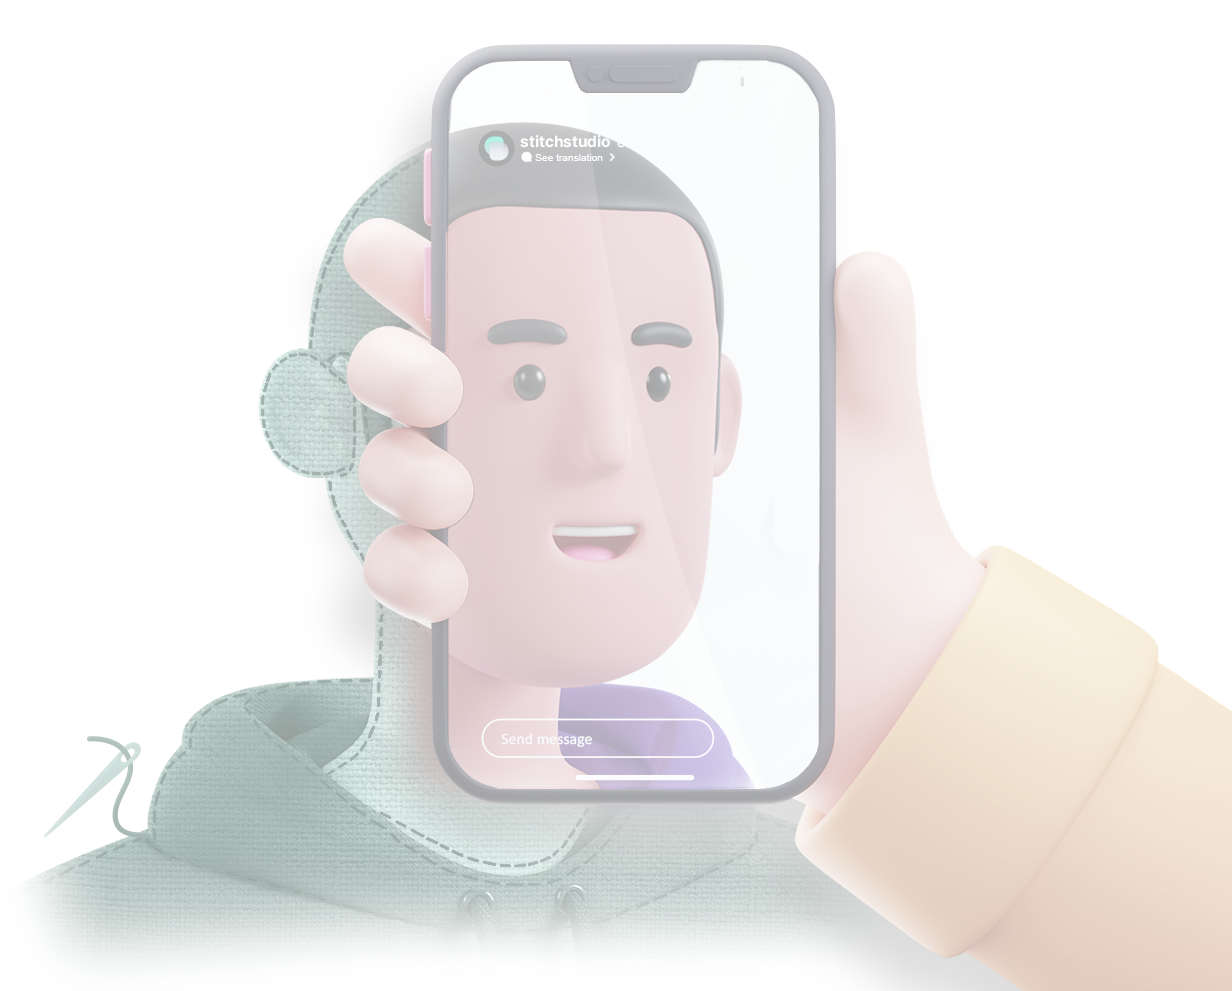
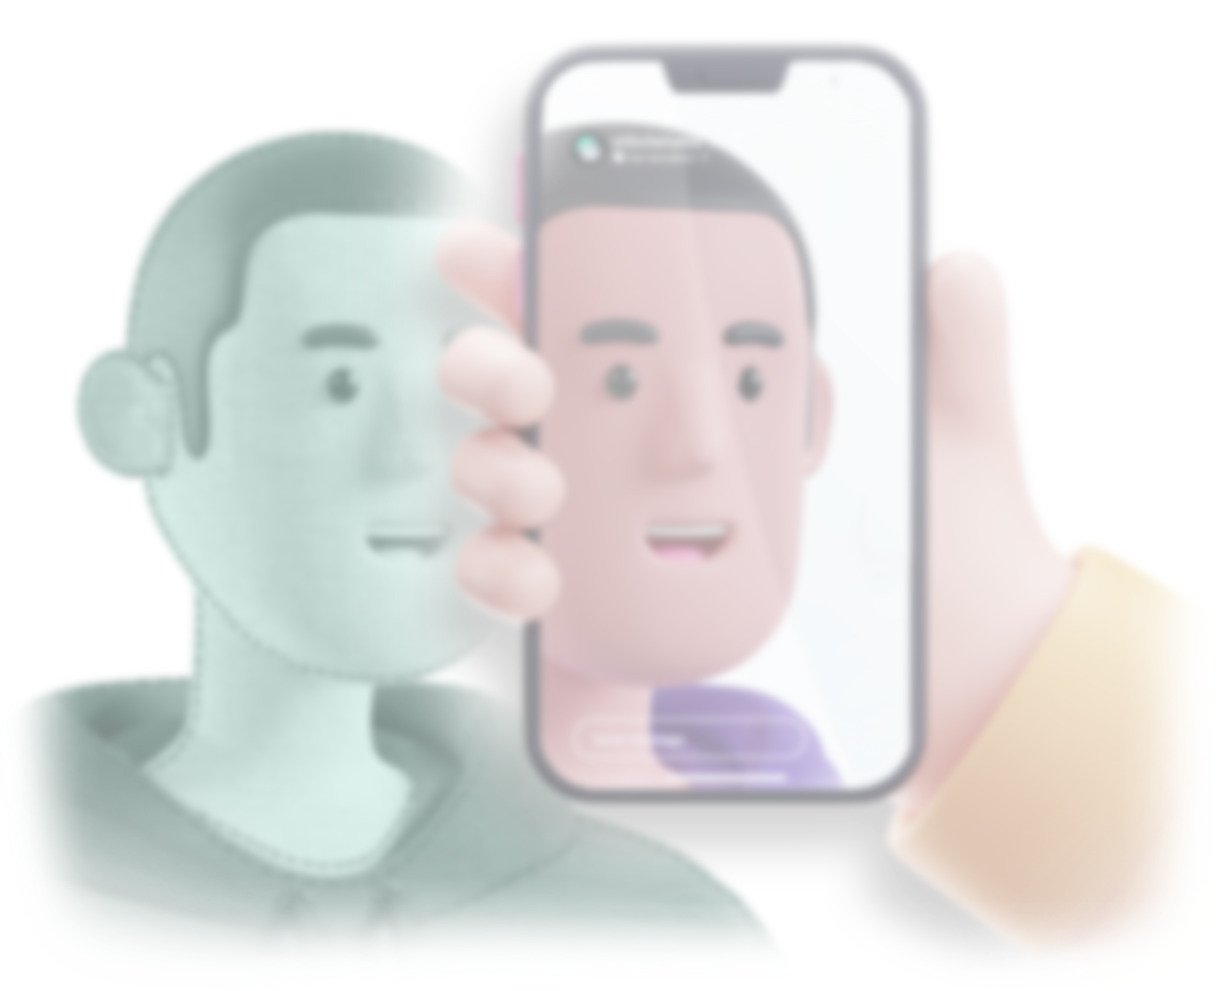
0.0.1

diff --git a/index.html b/index.html
@@ -78,7 +78,7 @@
 								</div>
 								<div class="stitch_fn_desc">
 									<p id="en">Easily create and cast characters for your content using artificial intelligence technology. You no longer need filming equipment and booking a recording studio.</p>
-									<p id="kr">스티치 스튜디오의 AI 기술을 통해 내 콘텐츠에 출연할 인물을 생성 및 섭외하고 직접 자유로운 연출을 감독하세요.</p>
+									<p id="kr">스티치 스튜디오의 AI 기술을 통해 내 콘텐츠에 출연할 인물을 캐스팅하고 직접 자유로운 연출을 감독하세요.</p>
 								</div>
 								<div class="hero1_btn">
 									<a href="#hero2" class="stitch_fn_main_button">
@@ -121,7 +121,7 @@
 									<div class="stitch_fn_abs_img" data-bg-img="img/hero-1-c.png"></div>
 								</div>
 								<div class="layer hero1_img" data-depth="0.6">
-									<img src="img/hero-1-c.png" alt="라온데이터 메인 이미지"/>
+									<img src="img/hero-1-d.png" alt="라온데이터 메인 이미지"/>
 									<div class="stitch_fn_abs_img" data-bg-img="img/hero-1-d.png"></div>
 								</div>
 								</div>
@@ -141,7 +141,9 @@
 		
 		
 		<!-- Divider -->
+	<div class="container wide">
 		<div class="stitch_fn_divider"></div>
+	</div>
 		<!-- /Divider -->
 		
 	<div class="stitch_fn_content">
@@ -169,14 +171,16 @@
 							<div class="s_item" style="
 							background-image:linear-gradient(
 								to bottom,
-								rgba(13, 24, 60, 0.2),
-								rgba(13, 24, 60, 0.6)
-							  ), url(img/hero2-1.png); background-size:100% auto; background-position:center bottom; background-repeat:no-repeat;">
+								rgba(20, 70, 58, 0.4),
+								rgba(13, 39, 38, 0.4)	
+							  ), url(img/hero-2-a.png); background-size:100% auto; background-position:center bottom; background-repeat:no-repeat;">
 								<div class="s_title">
+									<p id="en"><span class="color-stitchgreen">Automated ML Ops.</span></p>
 									<h3 id="en"><span class="color-stitchgreen">AI</span> Digitization</h3>
 									<p id="en">Methods of learning and translating 'human experience' into data are being researched and developed at Raondata with the aim of delivering the ideal human experience in the future.</p>
+									<p id="kr"><span class="color-stitchgreen">자동 모델 학습</span></p>
 									<h3 id="kr"><span class="color-stitchgreen">1</span> 인물 캐스팅</h3>
-									<p id="kr">'인간의 경험'을 학습하고 데이터로 변환하는 방법을 라온데이터는 미래의 이상적인 인간 경험 전달을 목표로 연구 개발하고 있습니다.</p>
+									<p id="kr">자동 학습 </p>
 								</div>
 							</div>
 						</li>
@@ -184,12 +188,14 @@
 							<div class="s_item" style="
 							background-image:linear-gradient(
 								to bottom,
-								rgba(13, 24, 60, 0.2),
-								rgba(13, 24, 60, 0.6)
-							  ), url(img/hero2-2.png); background-size:100% auto; background-position:center bottom; background-repeat:no-repeat;">
+								rgba(20, 70, 58, 0.8),
+								rgba(13, 39, 38, 0.8)	
+							  ), url(img/hero-2-b.png); background-size:100% auto; background-position:center bottom; background-repeat:no-repeat;">
 								<div class="s_title">
+									<p id="en"><span class="color-stitchgreen">AI Modules</span></p>
 									<h3 id="en"><span class="color-stitchgreen">HX</span> Digital Twin</h3>
 									<p id="en">With refined 'human experience' data, AI clones optimized for specific needs can be developed to perform tasks for individuals or organizations.</p>
+									<p id="kr"><span class="color-stitchgreen">기능별 AI 모듈</span></p>
 									<h3 id="kr"><span class="color-stitchgreen">2</span> 연출 감독</h3>
 									<p id="kr">정제된 '인간 경험' 데이터를 통해 특정 요구에 최적화된 AI 클론을 개발하여 개인 또는 조직의 작업을 수행할 수 있습니다.</p>
 								</div>
@@ -199,13 +205,15 @@
 							<div class="s_item" style="
 							background-image:linear-gradient(
 								to bottom,
-								rgba(13, 24, 60, 0.2),
-								rgba(13, 24, 60, 0.6)
-							  ), url(img/hero2-3.png); background-size:100% auto; background-position:center bottom; background-repeat:no-repeat;">
+								rgba(20, 70, 58, 0.8),
+								rgba(13, 39, 38, 0.8)	
+							  ), url(img/hero-2-c.png); background-size:100% auto; background-position:center bottom; background-repeat:no-repeat;">
 								<div class="s_title">
+									<p id="en"><span class="color-stitchgreen">File Export</span></p>
 									<h3 id="en"><span class="color-stitchgreen">HX</span> Data Conversion</h3>
 									<p id="en">Real-time and non-real-time conversion of disparate 'human experience' data allow individuals or organizations to appear completely different persona for specific needs.</p>
-									<h3 id="kr"><span class="color-stitchgreen">3</span> 결과물 적용</h3>
+									<p id="kr"><span class="color-stitchgreen">파일 출력</span></p>
+									<h3 id="kr"><span class="color-stitchgreen">3</span> 결과 적용</h3>
 									<p id="kr">서로 다른 '인간 경험' 데이터의 실시간 및 비실시간 변환을 통해 개인 또는 조직이 특정 요구에 대해 완전히 다른 페르소나를 나타낼 수 있습니다.</p>
 								</div>
 							</div>

diff --git a/css/style.css b/css/style.css
@@ -354,7 +354,7 @@ a.stitch_fn_circle_link:hover:after{
 	filter: progid:DXImageTransform.Microsoft.gradient(startColorstr="#14463a",endColorstr="#0d2726",GradientType=1);
 	-webkit-backdrop-filter: blur(0.5rem);
 	backdrop-filter: blur(0.5rem);
-	border: 0.2px solid rgba(20,70,58,1);
+	border: 1px solid rgba(20,70,58,1);
 	border-top: none!important;
 	border-radius: 0 0 1rem 1rem;
 	box-shadow: 0px 4px 8px rgba(0,0,0,0.2);
@@ -738,11 +738,11 @@ a.stitch_fn_circle_link:hover:after{
 	z-index: 5;
 }
 .stitch_fn_hero1 .hero1_right .hero1_img .stitch_fn_abs_img{
-	left: 30px;
-	right: 30px;
-	top: 30px;
-	bottom: 30px;
-	border-radius: 15px;
+	left: 0;
+	right: 0;
+	top: 0;
+	bottom: 0;
+	border-radius: 1rem;
 	overflow: hidden;
 }
 .stitch_fn_hero1 .hero1_right .hero1_border:after{
@@ -778,7 +778,7 @@ a.stitch_fn_circle_link:hover:after{
 	width: 100%;
 	position: relative;
 	height: 1px;
-	background-color: rgba(255,255,255,.05);
+	background-color: #383e4b;
 	float: left;
 	clear: both;
 }
@@ -956,9 +956,9 @@ a.stitch_fn_circle_link:hover:after{
 	padding: 0;
 	list-style-type: none;
 	width: 33.3333%;
-	padding-left: 30px;
-	padding-top: 16px;
-	margin-bottom: 30px;
+	padding-left: 2rem;
+	padding-top: 1rem;
+	margin-bottom: 2rem;
 }
 .stitch_fn_hero2 .s_item{
 	width: 100%;
@@ -966,6 +966,7 @@ a.stitch_fn_circle_link:hover:after{
 	clear: both;
 	height: 100%;
 	border-radius: 0.5rem;
+	border: 1px solid rgba(20,70,58,1);	
 	padding: 5rem 2.5rem 20rem 2.5rem;
 	position: relative;
 	transition: all .3s ease;
@@ -973,7 +974,7 @@ a.stitch_fn_circle_link:hover:after{
 
 .stitch_fn_hero2 .s_item:hover{
 	background-size:108%!important;	
-	transform: translate3d(0px,-5px,0px);
+	transform: translate3d(0px,-0.5rem,0px);
 }
 .stitch_fn_hero2 .s_item .s_counter{
 	width: 50px;
@@ -2399,24 +2400,24 @@ input.button-form:hover {
 
 }
 
-@media(max-width: 960px){
+@media(max-width: 900px){
 	.stitch_fn_hero1 .hero1_left{
-		width:80%;
+		width:50%;
 	}
 	.stitch_fn_hero1 .hero1_right{
-		width:20%;
+		width:50%;
+		display:flex;
+		align-items: center;
 	}
-
-	.stitch_fn_hero1 .hero1_right img{
-		display:none;
+	.stitch_fn_hero1 .hero1_right .hero1_img {
+	    width:100%;
+		height:100%;
+		padding:0;
 	}
-
-	.stitch_fn_hero1 .hero1_in{
-		background-image: url("../img/hero-1-m.png");
-		background-size: contain;
-		width:100%;
-		height:auto;
-		border-radius:1rem;
+	.hero1_border {
+		width:120%;
+		height:120%;
+		padding:0;
 	}
 }
 
@@ -2443,6 +2444,23 @@ input.button-form:hover {
 	.stitch_fn_sidebar_header{
 		width: 100%;
 		right: -100%;
+	}
+	.stitch_fn_hero1 .hero1_left {
+		width: 80%;
+	}
+	.stitch_fn_hero1 .hero1_right {
+		width:20%;
+	}
+	.stitch_fn_hero1 .hero1_right img{
+		display:none;
+	}
+
+	.stitch_fn_hero1 .hero1_in{
+		background-image: url("../img/hero-1-m.png");
+		background-size: contain;
+		width:100%;
+		height:auto;
+		border-radius:1rem;
 	}
 
 	.stitch_fn_info_list li{
@@ -2482,7 +2500,8 @@ input.button-form:hover {
 		padding: 4rem 2rem 25rem 2rem;
 	}
 }
-
+@media(max-width: 640px){
+}
 @media(max-width: 480px){
 	
 	.stitch_fn_header .logo img {
